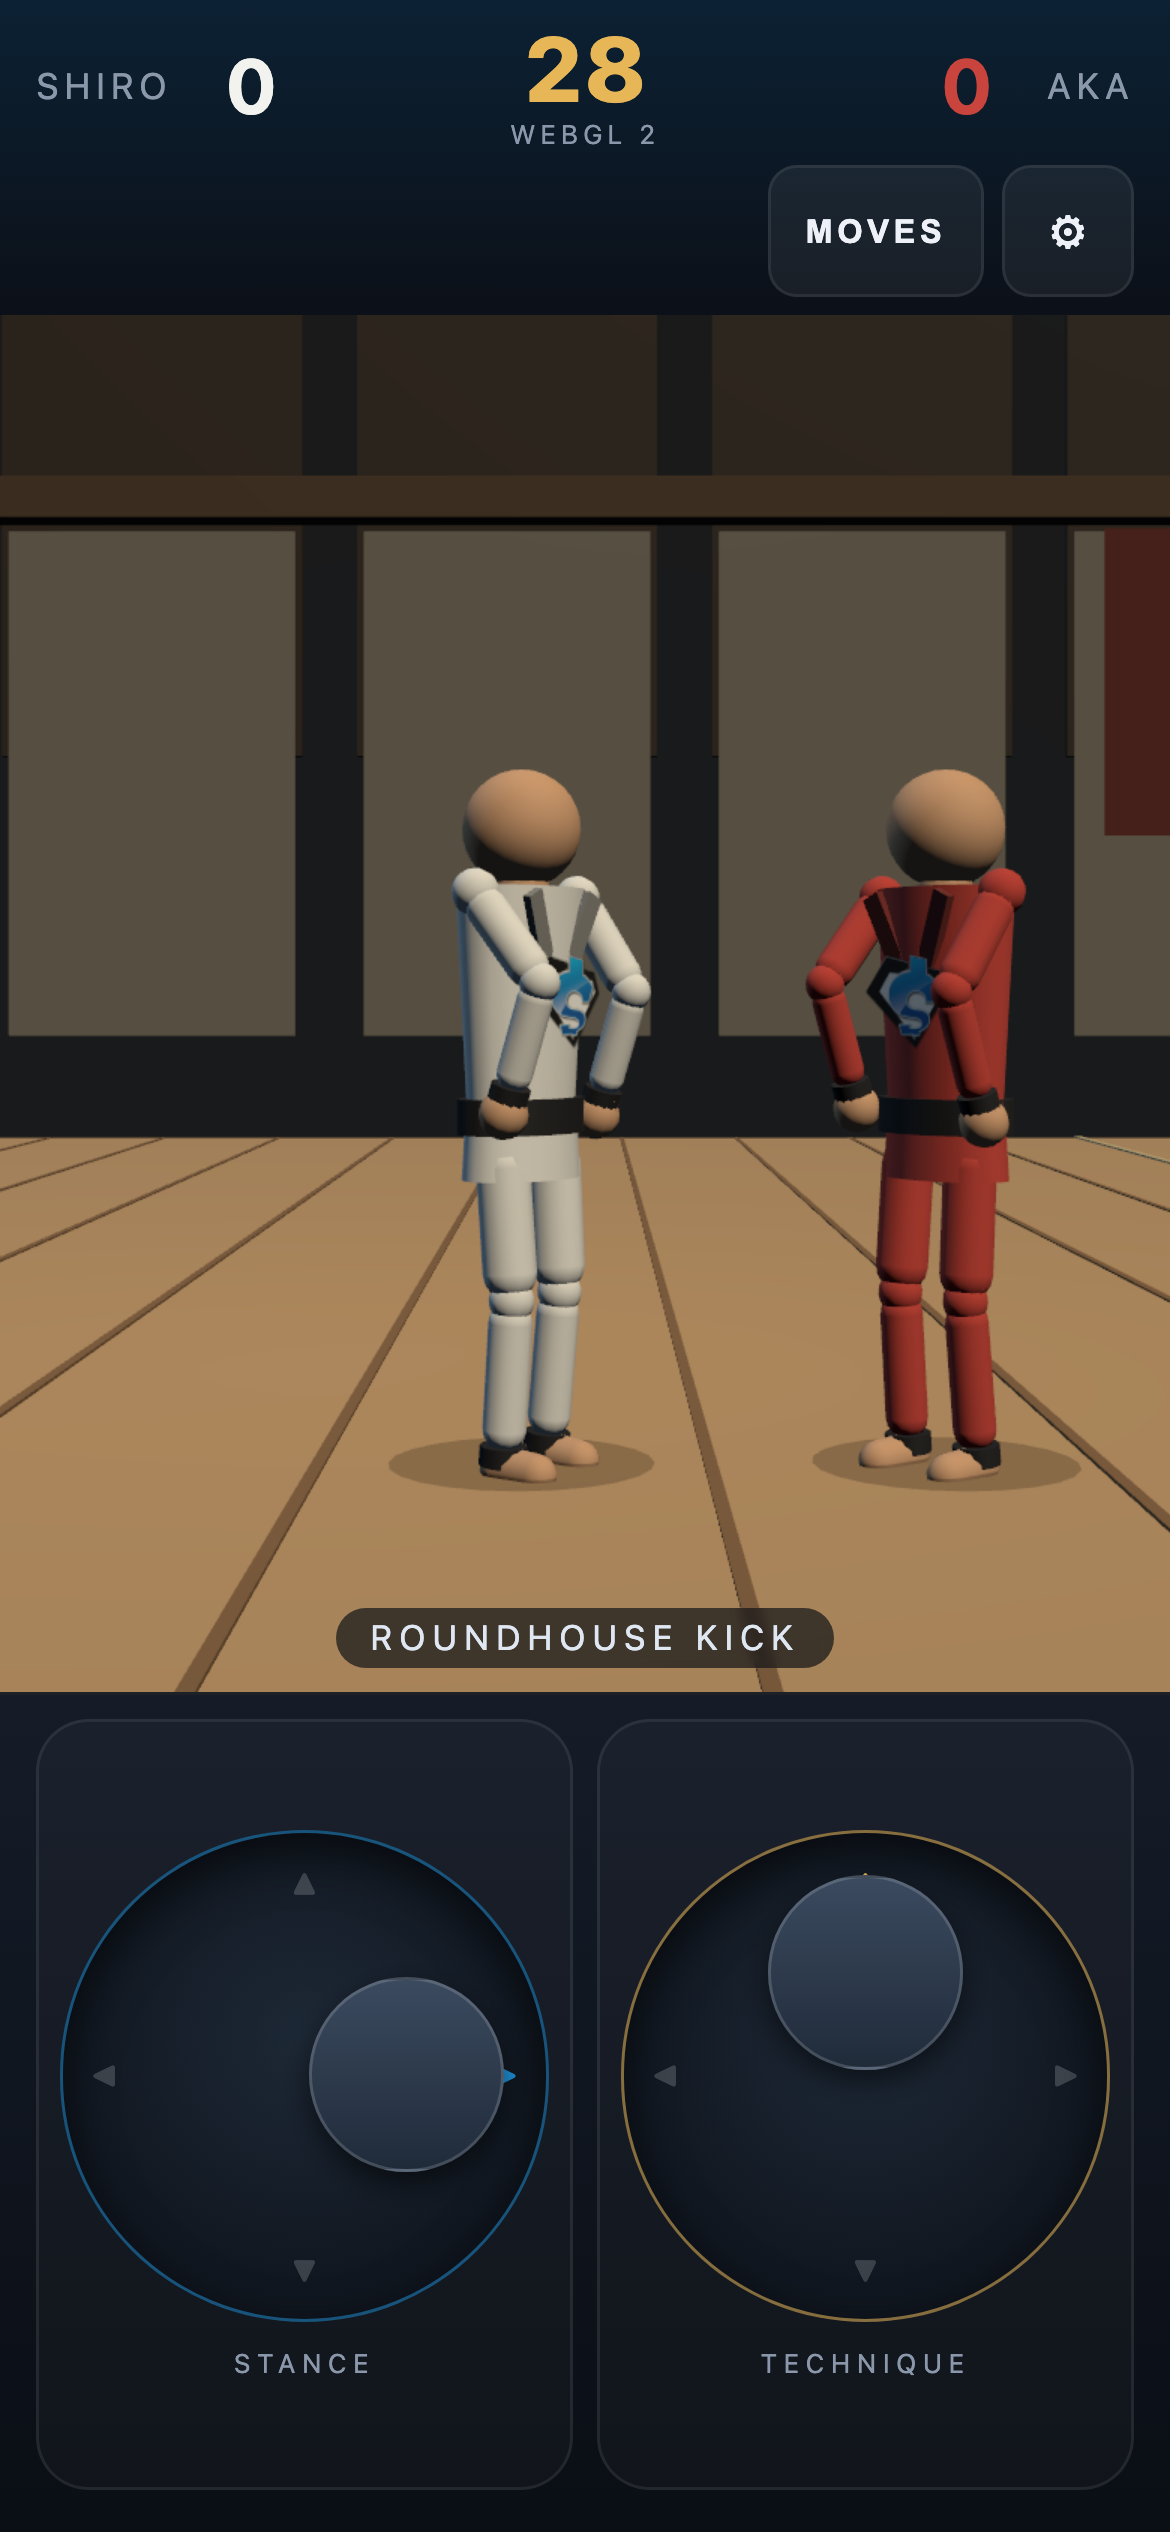
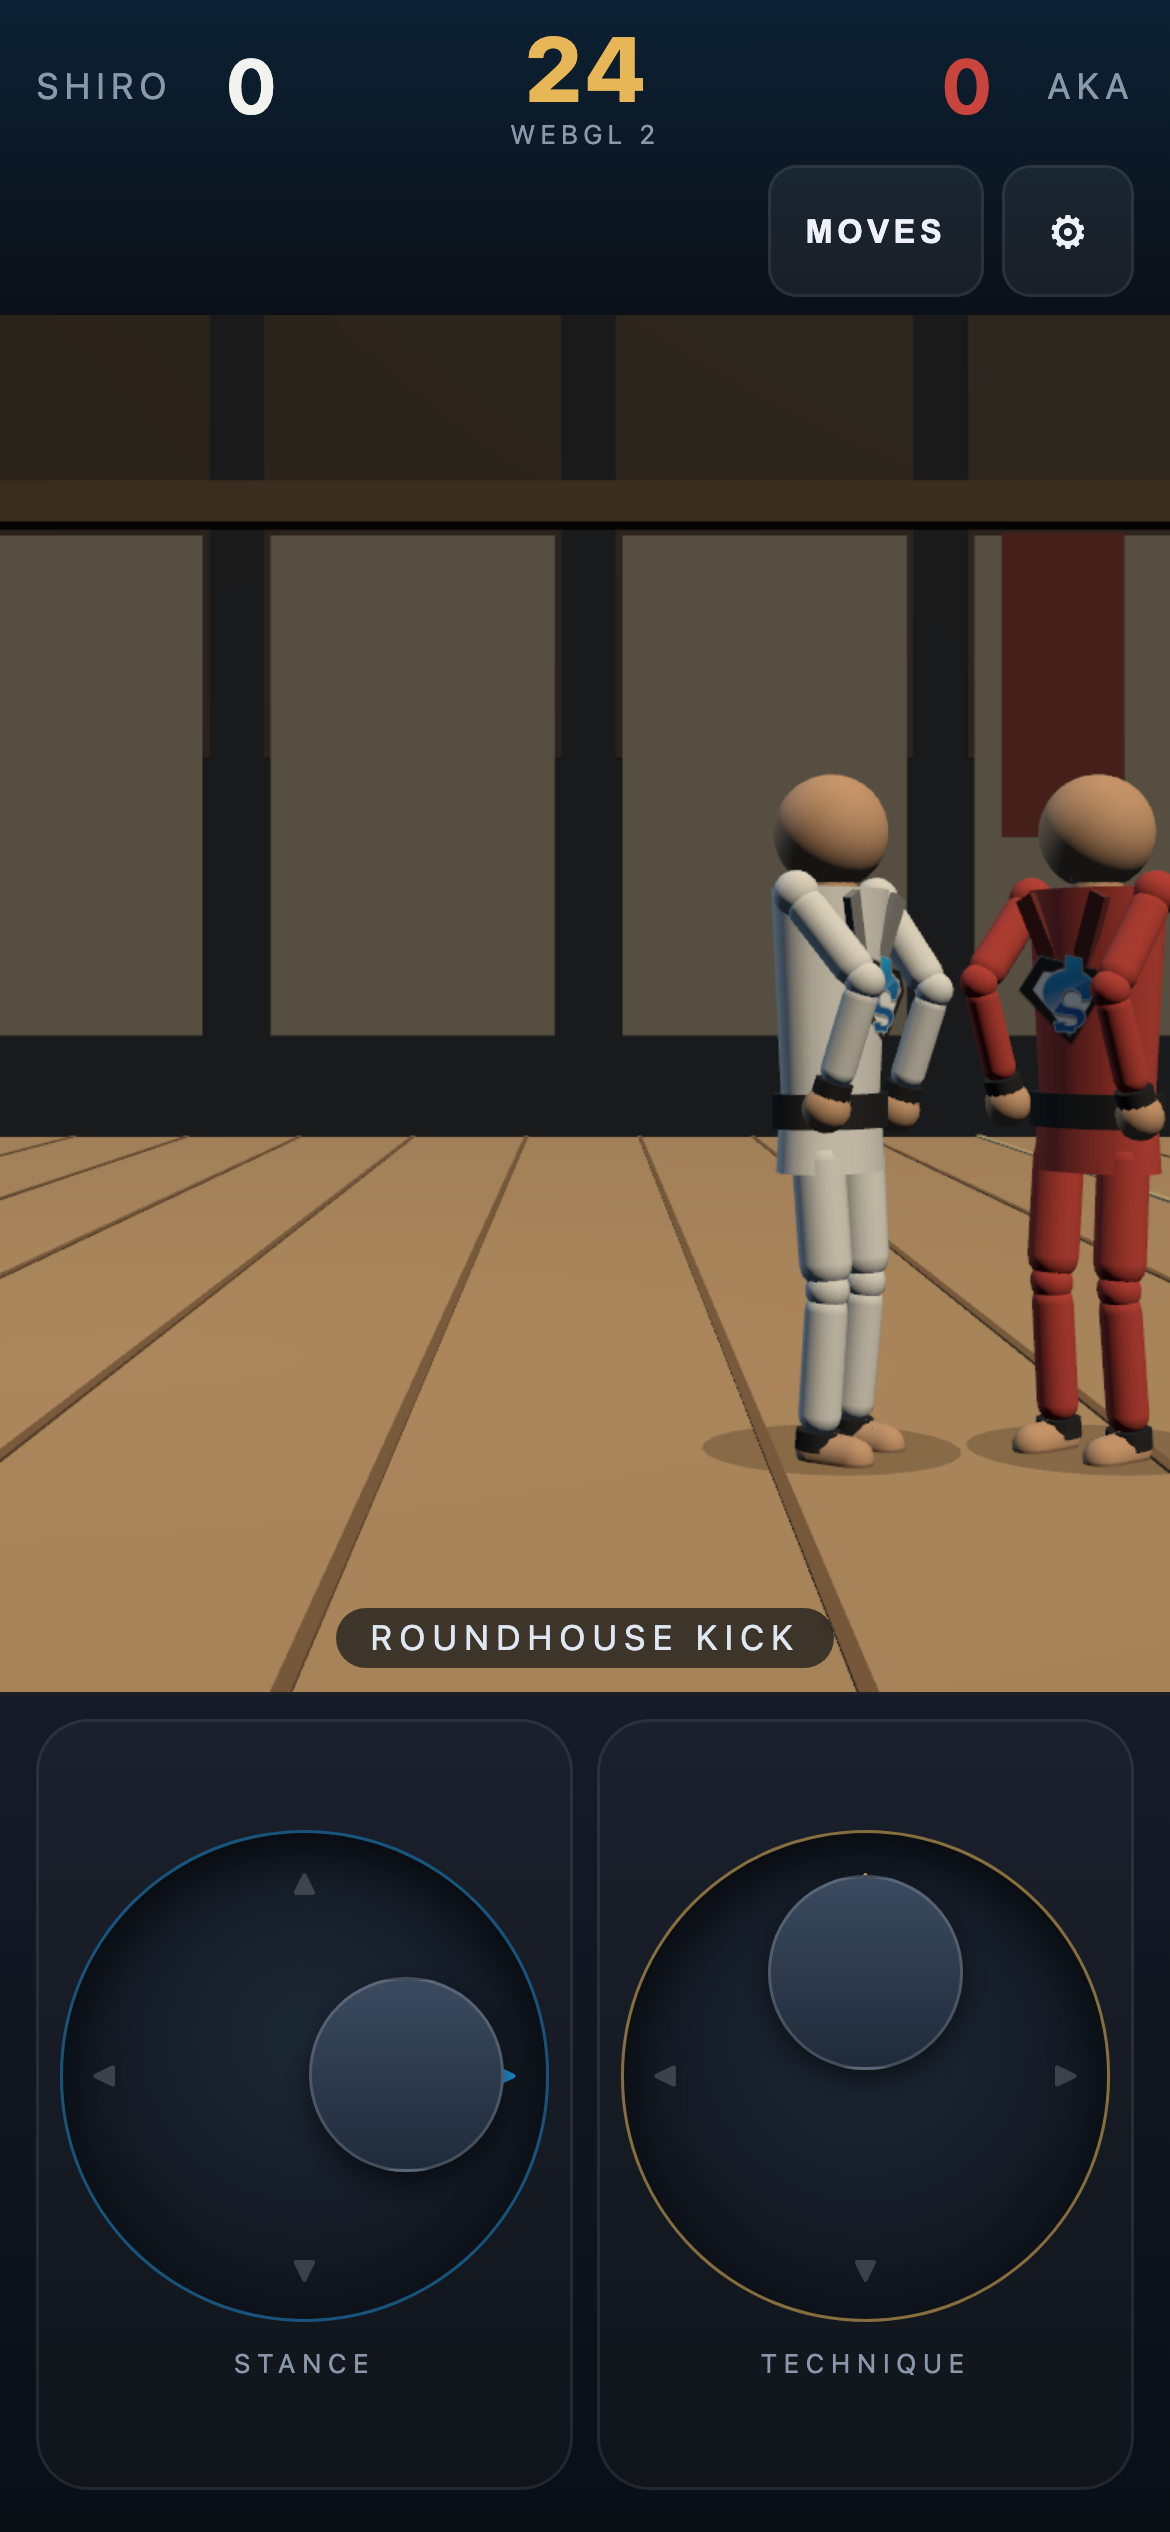
feat: 🥋 drill spacing in the dojo, and a bout test that survives a slow link
A closed-loop touch controller cannot play this game over a half-second round
trip. The fighter walks about three metres a second, so one round trip carries
it 1.5m through a 0.9m strike band — the CI trace showed exactly that, the
fighter oscillating past the window and shoving the training partner into the
wall, never once landing in range. No amount of retrying fixes a control loop
whose latency exceeds the thing it is controlling.

🎯 The dojo can now open at a chosen distance (`?mode=dojo&spacing=1.85`).
That is a training feature first — drilling a technique means repeating it from
the range it actually lands at, not walking in from tournament distance every
repetition — and it happens to remove the approach phase from the test, which
is the part latency made untestable. Walking still has its own test.

👆 Strikes are tapped, not held: down, throw, up, with nothing awaited in
between, so a press is bounded by dispatch latency instead of by a round trip.
The press latch is what makes a tap shorter than a frame still register.

📝 __smkk exposes the last technique STARTED, not only the one in flight. A
technique lives about 430ms; polling over a slow link samples straight past it
and reads null, which is what made the direct-hold assertion fail while the
input was working perfectly.

🔁 And the loop no longer gives up after one bout — if the clock beats it, it
drills the next one.

diff --git a/apps/game/tests/e2e/touch-bout.spec.ts b/apps/game/tests/e2e/touch-bout.spec.ts
@@ -1,5 +1,5 @@
 import { expect, test } from '@playwright/test';
-import { Thumbs, anchorOf, hold, type Dir } from './thumbs.js';
+import { Thumbs, anchorOf, hold, tap, type Dir } from './thumbs.js';
 
 interface Snapshot {
   phase: string;
@@ -17,23 +17,33 @@ interface Snapshot {
  * the fighter is ALREADY at removes the race, and exercises three techniques
  * instead of one.
  */
-const STRIKES: ReadonlyArray<{ name: string; min: number; max: number; stance: Dir; technique: Dir }> = [
-  { name: 'roundhouse_kick', min: 2.0, max: 2.7, stance: 'right', technique: 'up' },
-  { name: 'front_kick', min: 1.6, max: 2.0, stance: 'neutral', technique: 'up' },
-  { name: 'lunge_punch', min: 1.2, max: 1.6, stance: 'neutral', technique: 'right' },
+const STRIKES: ReadonlyArray<{ name: string; min: number; max: number; technique: Dir }> = [
+  { name: 'front_kick', min: 1.6, max: 2.05, technique: 'up' },
+  { name: 'lunge_punch', min: 1.15, max: 1.6, technique: 'right' },
 ];
 
+/**
+ * The dojo opens the drill at front-kick range.
+ *
+ * Closing the distance by touch is not testable over a slow link: the fighter
+ * walks about three metres a second, so a half-second round trip carries it
+ * through the whole strike band before the release lands. Walking has its own
+ * test below. This one is about whether a bout can be WON by thumb, so it
+ * drills from the range the technique lands at, exactly as a student would.
+ */
+const DRILL_SPACING = 1.85;
+
 /** Beyond this the fighter has to close before anything can land. */
-const MAX_REACH = 2.7;
+const MAX_REACH = 2.05;
 
 /** Inside this even the shortest technique overshoots, so back off. */
-const STEP_BACK_BELOW = 1.2;
+const STEP_BACK_BELOW = 1.15;
 
 test('a bout is won end to end with nothing but two thumbs', async ({ page }, info) => {
   test.skip(info.project.name !== 'phone-portrait', 'touch is the phone contract');
   test.setTimeout(300_000);
 
-  await page.goto('/?mode=dojo');
+  await page.goto(`/?mode=dojo&spacing=${DRILL_SPACING}`);
   await page.waitForFunction(() => (globalThis as Record<string, any>)['__smkk']?.ready === true);
 
   const thumbs = await Thumbs.attach(page);
@@ -57,7 +67,17 @@ test('a bout is won end to end with nothing but two thumbs', async ({ page }, in
     // gap we actually strike from.
     await thumbs.release();
     const snapshot = await read();
-    if (snapshot.phase === 'over') break;
+    if (snapshot.phase === 'over') {
+      if (snapshot.winner === 0) break;
+      // The bout ran out of clock. The game restarts itself; drill the next one
+      // rather than failing on a round trip that happened to be slow.
+      await page.waitForFunction(
+        () => (globalThis as Record<string, any>)['__smkk'].state().phase !== 'over',
+        null,
+        { timeout: 30_000 },
+      );
+      continue;
+    }
 
     if (snapshot.phase !== 'fight') {
       await page.waitForTimeout(120);
@@ -67,24 +87,22 @@ test('a bout is won end to end with nothing but two thumbs', async ({ page }, in
     const gap = snapshot.positions[1] - snapshot.positions[0];
 
     if (gap > MAX_REACH || gap < STEP_BACK_BELOW) {
-      await hold(thumbs, stance, gap > MAX_REACH ? 'right' : 'left');
-      await page.waitForTimeout(90);
+      await tap(thumbs, stance, gap > MAX_REACH ? 'right' : 'left');
       continue;
     }
 
     const strike = STRIKES.find((candidate) => gap >= candidate.min && gap <= candidate.max);
     if (strike === undefined) {
-      await hold(thumbs, stance, 'left');
-      await page.waitForTimeout(90);
+      await tap(thumbs, stance, 'left');
       continue;
     }
 
-    await hold(thumbs, stance, strike.stance);
-    await hold(thumbs, technique, strike.technique);
+    // Both of these are thrown from a neutral stance, so nothing walks while
+    // the technique is in the air and the gap we measured is the gap it lands
+    // from. The press latch catches a tap shorter than a frame.
+    await tap(thumbs, technique, strike.technique);
     strikesThrown += 1;
-    await page.waitForTimeout(140);
-    await thumbs.release();
-    await page.waitForTimeout(200);
+    await page.waitForTimeout(220);
   }
 
   await thumbs.release();
@@ -120,18 +138,21 @@ test('the stance stick moves the fighter and the technique stick does not', asyn
 
   await page.waitForTimeout(400);
   const settled = await positionOf();
-  await hold(thumbs, technique, 'up');
-  // Poll rather than sleep: a slow renderer may not have ticked yet.
+  await tap(thumbs, technique, 'up');
+  // The technique lives for a few hundred milliseconds, so poll the record of
+  // what started rather than what is currently mid-flight.
   await expect
     .poll(
       async () =>
         page.evaluate(
-          () => (globalThis as Record<string, any>)['__smkk'].state().p1Move as string | null,
+          () =>
+            ((globalThis as Record<string, any>)['__smkk'].state().lastStarted as
+              | { moveId: string }
+              | null)?.moveId ?? null,
         ),
-      { timeout: 10_000 },
+      { timeout: 20_000 },
     )
     .toBe('front_kick');
-  await thumbs.release();
   // A technique may step, but it must not walk the fighter across the mat.
   expect(Math.abs((await positionOf()) - settled)).toBeLessThan(0.6);
 });

diff --git a/apps/game/src/main.ts b/apps/game/src/main.ts
@@ -135,6 +135,10 @@ async function boot(): Promise<void> {
   const mode = params.get('mode') ?? 'classic';
   const seed = Number.parseInt(params.get('seed') ?? '1337', 10) || 1337;
   const forceWebGL = params.get('renderer') === 'webgl';
+  // Dojo drill distance. Out of the dojo the ruleset owns the opening distance.
+  const spacingParam = Number.parseFloat(params.get('spacing') ?? '');
+  const startSeparation =
+    mode === 'dojo' && Number.isFinite(spacingParam) ? spacingParam : undefined;
 
   const canvas = document.getElementById('view') as HTMLCanvasElement | null;
   const stageEl = document.getElementById('stage');
@@ -154,7 +158,7 @@ async function boot(): Promise<void> {
   ]);
   hud.setBackend(label);
 
-  let state = createMatch({ content });
+  let state = createMatch({ content, startSeparation });
   let opponent = makeOpponent(mode, seed);
 
   const stage = new Stage(state.arena);
@@ -168,7 +172,7 @@ async function boot(): Promise<void> {
     if (width === 0 || height === 0) return;
     renderer.setSize(width, height, false);
     stage.resize(width, height);
-    stage.frame(0, state.ruleset.startSeparation, true);
+    stage.frame(0, state.separation, true);
   };
   new ResizeObserver(resize).observe(stageEl);
   resize();
@@ -182,6 +186,7 @@ async function boot(): Promise<void> {
   const handle = (events: readonly MatchEvent[], nowMs: number): void => {
     for (const event of events) {
       if (event.type === 'move_start') {
+        lastStarted = { player: event.player, moveId: event.moveId, tick: state.tick };
         if (event.player === 0) hud.showTechnique(moveName(event.moveId));
         audio.play('strike');
       } else if (event.type === 'blocked') {
@@ -215,9 +220,10 @@ async function boot(): Promise<void> {
     }
   };
 
+  let lastStarted: { player: 0 | 1; moveId: string; tick: number } | null = null;
   let restartAt = 0;
   const restart = (): void => {
-    state = createMatch({ content });
+    state = createMatch({ content, startSeparation });
     opponent = makeOpponent(mode, seed);
     restartAt = 0;
     hud.clearCareer();
@@ -281,6 +287,7 @@ async function boot(): Promise<void> {
         draw: state.draw,
         lastCall: state.lastCall,
         p1Move: state.fighters[0].move?.id ?? null,
+        lastStarted,
         p1Phase: state.fighters[0].phase,
       }),
       checksum: () => checksumOf(state),

diff --git a/packages/sim/src/match.ts b/packages/sim/src/match.ts
@@ -51,6 +51,8 @@ export interface MatchState {
   events: MatchEvent[];
   readonly ruleset: RulesetSpec;
   readonly arena: ArenaSpec;
+  /** The opening distance in force for this match, after any override. */
+  readonly separation: number;
   readonly moves: ReadonlyMap<string, MoveSpec>;
 }
 
@@ -60,6 +62,12 @@ export interface MatchOptions {
   readonly content: ContentBundle;
   readonly rulesetId?: string;
   readonly arenaId?: string;
+  /**
+   * Overrides the ruleset's opening distance, in metres. The dojo uses this so
+   * a student can drill a technique from the range it actually lands at
+   * instead of walking in from the ruleset distance every repetition.
+   */
+  readonly startSeparation?: number;
 }
 
 function pick<T extends { id: string }>(items: readonly T[], id: string | undefined, label: string): T {
@@ -76,7 +84,11 @@ export function createMatch(options: MatchOptions): MatchState {
   if (first === undefined || second === undefined) {
     throw new Error('a bout needs exactly two fighters');
   }
-  const half = ruleset.startSeparation / 2;
+  const separation = Math.max(
+    0.8,
+    Math.min(options.startSeparation ?? ruleset.startSeparation, arena.bounds * 1.6),
+  );
+  const half = separation / 2;
 
   return {
     tick: 0,
@@ -90,6 +102,7 @@ export function createMatch(options: MatchOptions): MatchState {
     events: [],
     ruleset,
     arena,
+    separation,
     moves: indexMoves(options.content),
   };
 }
@@ -219,7 +232,7 @@ function awardCall(state: MatchState, call: RefereeCall): void {
 }
 
 function resetExchange(state: MatchState): void {
-  const half = state.ruleset.startSeparation / 2;
+  const half = state.separation / 2;
   resetToStance(state.fighters[0], -half, 1);
   resetToStance(state.fighters[1], half, -1);
   state.events.push({ type: 'exchange_reset' });

diff --git a/apps/game/tests/e2e/thumbs.ts b/apps/game/tests/e2e/thumbs.ts
@@ -89,3 +89,22 @@ export async function hold(thumbs: Thumbs, anchor: StickAnchor, dir: Dir): Promi
   await thumbs.down(anchor.id, anchor.x, anchor.y);
   await thumbs.move(anchor.id, anchor.x + offset.x, anchor.y + offset.y);
 }
+
+
+/**
+ * A whole press in one burst: down, throw, up, with nothing awaited in between
+ * except the dispatches themselves.
+ *
+ * Holding a direction across a round trip is not viable against a slow runner —
+ * the fighter walks at about three metres a second, so a one-second round trip
+ * carries it clean through the strike band. A tap is bounded by dispatch
+ * latency alone, and the game's press latch guarantees the simulation still
+ * sees an input shorter than one frame.
+ */
+export async function tap(thumbs: Thumbs, anchor: StickAnchor, dir: Dir): Promise<void> {
+  if (dir === 'neutral') return;
+  const offset = offsetFor(dir);
+  await thumbs.down(anchor.id, anchor.x, anchor.y);
+  await thumbs.move(anchor.id, anchor.x + offset.x, anchor.y + offset.y);
+  await thumbs.up(anchor.id);
+}
